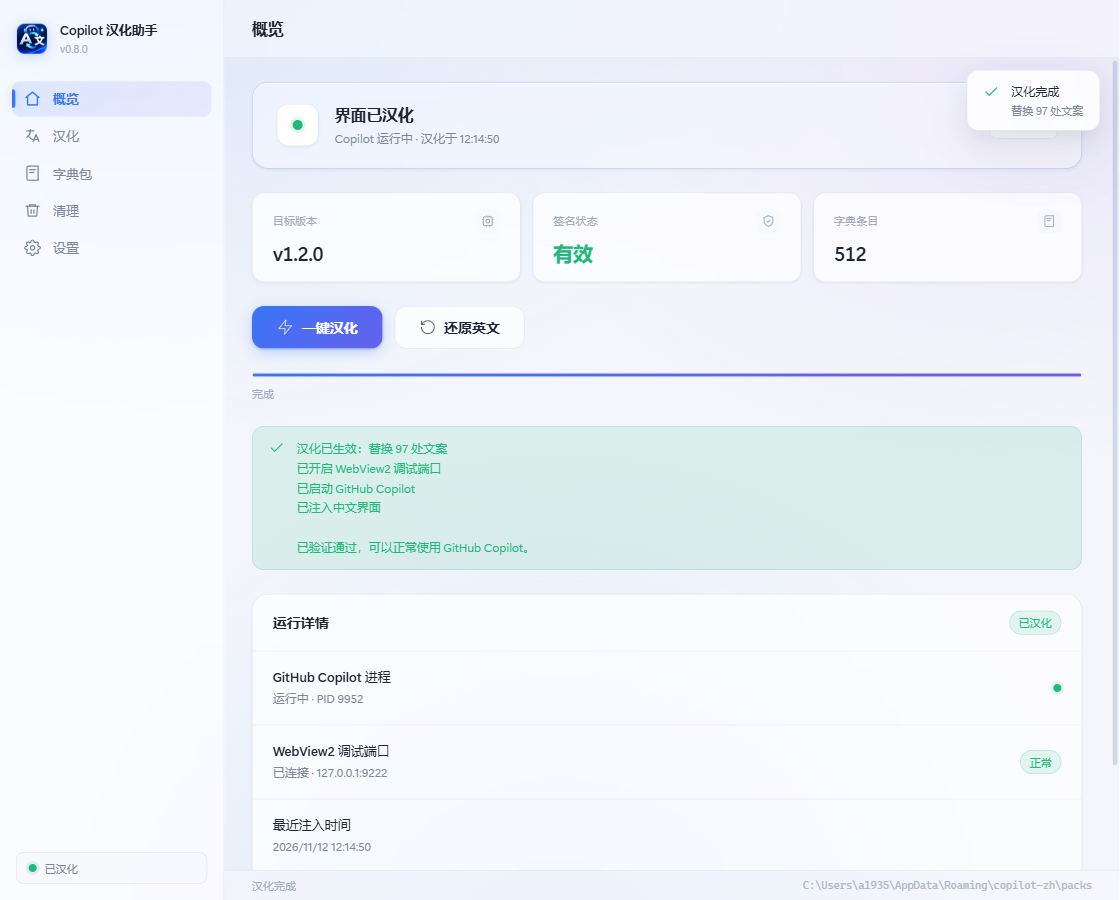
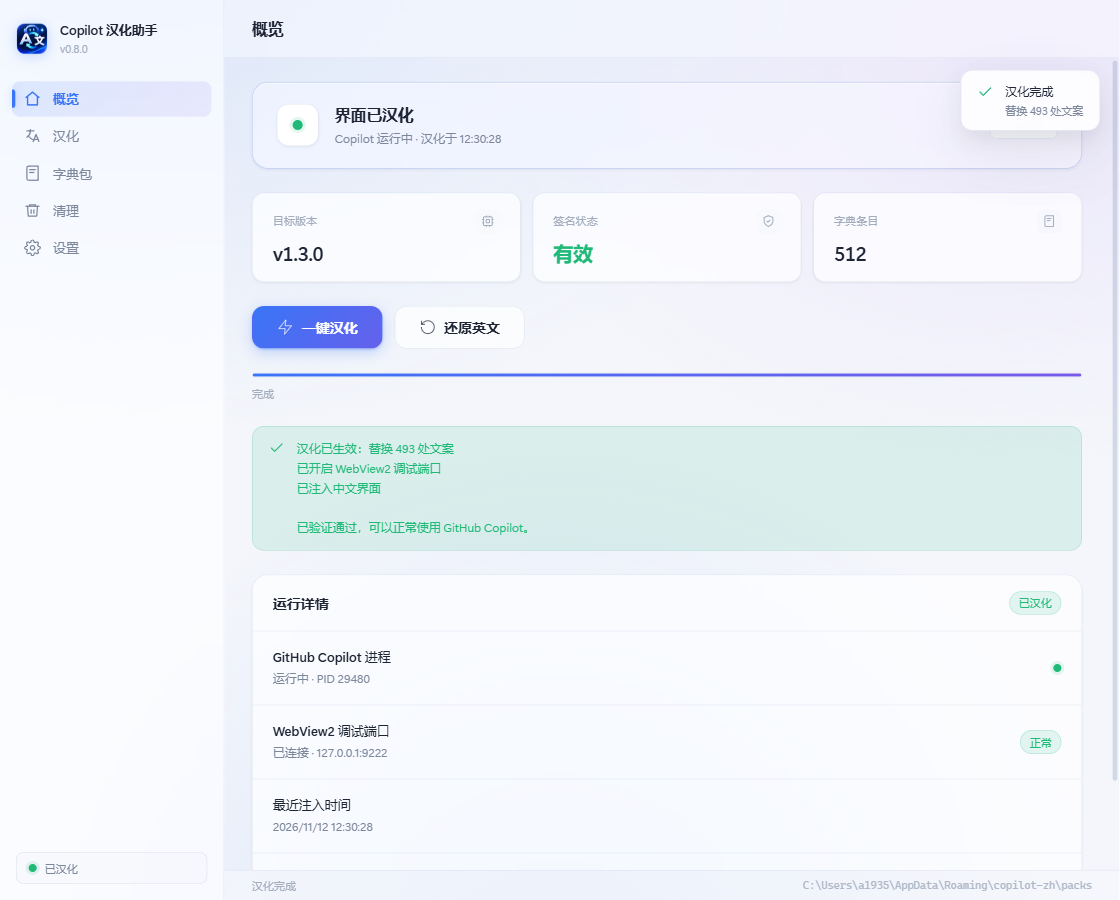
test(ui): 边界场景全面验证并修复启动 bug
UI/UX 重构·阶段五：全面边界测试与安装包验证。

修复一个真实启动 bug：
launchCopilot 原先用 path.dirname(exePath) 作为 cwd（Copilot 安装目录）。
当上一个 Copilot 进程刚被 taskkill、文件锁尚未完全释放时，
以该目录为工作目录 spawn 会抛 EBUSY，导致汉化流程卡在「启动 Copilot」阶段。
修复：
- cwd 改用系统临时目录，避免与 Copilot 自身文件产生锁竞争
- spawn 增加 error 事件监听（原先只看 try/catch，捕获不到异步错误）
- 针对 EBUSY/EPERM 类瞬时错误最多重试 3 次，间隔递增

新增 scripts/test-edge.js，19 项边界测试全部通过：
- 窗口尺寸：1280x900 / 1040x760 / 900x700 / 800x640 / 700x600 均无横向溢出
- 窄窗折叠：<860px 时侧边栏自动收到 68px，导航文字与品牌文字隐藏
- 动画关闭：data-motion=off 时过渡时长压到 0.001s
- 玻璃关闭：data-glass=off 时 backdrop-filter 变为 none
- 主题切换重绘：三次切换后分段滑块宽度始终正确（64px）
- 全页面双主题：10 个组合（5 页 × 2 主题）无横向溢出
- 设置往返：theme/motion/glass 写入后能正确读回
- 非法值拒绝：theme=invalid-value 被 settings.js 白名单拦截，保持原值
- 快速切换：连续 15 次页面切换无新增 JS 异常

真实场景测试（通过 UI 点击触发）：
- 场景 A 冷启动：Copilot 未运行 → 自动启动并注入，替换 97 处，7 阶段全完成
- 场景 B 已运行：Copilot 在跑但策略缺失 → 自动重启并注入，替换 493 处
- 独立验证：Copilot 页面 48 条文本中 36 条已中文化

构建与安装验证：
- 构建 v0.9.0 安装包（97.9 MB）
- 静默安装 → 启动 → 窗口标题、内置字典、设置文件均正常
- 卸载 → 4 项残留检查全部通过，零残留

注意：仅本地提交，未推送到 GitHub。

diff --git a/scripts/test-edge.js b/scripts/test-edge.js
@@ -1,0 +1,273 @@
+// 阶段五：边界场景测试
+// 覆盖：窗口尺寸、动画关闭、玻璃关闭、主题切换下的组件重绘、
+//       设置持久化重启、Copilot 已运行场景
+const http = require('http');
+const crypto = require('crypto');
+const net = require('net');
+
+const PORT = 9333;
+
+function httpGet(p) {
+  return new Promise((res, rej) => {
+    http.get({ host: '127.0.0.1', port: PORT, path: p }, r => {
+      let d = ''; r.on('data', c => d += c); r.on('end', () => res(d));
+    }).on('error', rej);
+  });
+}
+class WS {
+  constructor(u) { this.url = new URL(u); this.buf = Buffer.alloc(0); this.id = 0; this.pending = new Map(); }
+  connect() {
+    return new Promise((resolve, reject) => {
+      const key = crypto.randomBytes(16).toString('base64');
+      this.sock = net.connect(Number(this.url.port), this.url.hostname, () => {
+        this.sock.write([`GET ${this.url.pathname} HTTP/1.1`, `Host: ${this.url.host}`, 'Upgrade: websocket',
+          'Connection: Upgrade', `Sec-WebSocket-Key: ${key}`, 'Sec-WebSocket-Version: 13', '', ''].join('\r\n'));
+      });
+      let hs = false;
+      this.sock.on('data', d => {
+        this.buf = Buffer.concat([this.buf, d]);
+        if (!hs) {
+          const i = this.buf.indexOf('\r\n\r\n'); if (i < 0) return;
+          if (!this.buf.subarray(0, i).toString().includes('101')) return reject(new Error('hs'));
+          hs = true; this.buf = this.buf.subarray(i + 4); resolve();
+        }
+        this.p();
+      });
+      this.sock.on('error', reject);
+    });
+  }
+  p() {
+    while (true) {
+      if (this.buf.length < 2) return;
+      let len = this.buf[1] & 0x7f, off = 2;
+      if (len === 126) { if (this.buf.length < 4) return; len = this.buf.readUInt16BE(2); off = 4; }
+      else if (len === 127) { if (this.buf.length < 10) return; len = Number(this.buf.readBigUInt64BE(2)); off = 10; }
+      if (this.buf.length < off + len) return;
+      const t = this.buf.subarray(off, off + len).toString('utf8');
+      this.buf = this.buf.subarray(off + len);
+      try { const m = JSON.parse(t); if (m.id && this.pending.has(m.id)) {
+        const p = this.pending.get(m.id); this.pending.delete(m.id);
+        m.error ? p.reject(new Error(JSON.stringify(m.error))) : p.resolve(m.result); } } catch (e) {}
+    }
+  }
+  send(method, params) {
+    const id = ++this.id, data = Buffer.from(JSON.stringify({ id, method, params: params || {} }), 'utf8');
+    const mask = crypto.randomBytes(4), masked = Buffer.alloc(data.length);
+    for (let i = 0; i < data.length; i++) masked[i] = data[i] ^ mask[i % 4];
+    let h;
+    if (data.length < 126) h = Buffer.from([0x81, 0x80 | data.length]);
+    else if (data.length < 65536) { h = Buffer.alloc(4); h[0] = 0x81; h[1] = 0x80 | 126; h.writeUInt16BE(data.length, 2); }
+    else { h = Buffer.alloc(10); h[0] = 0x81; h[1] = 0x80 | 127; h.writeBigUInt64BE(BigInt(data.length), 2); }
+    this.sock.write(Buffer.concat([h, mask, masked]));
+    return new Promise((res, rej) => { this.pending.set(id, { resolve: res, reject: rej });
+      setTimeout(() => { if (this.pending.has(id)) { this.pending.delete(id); rej(new Error('timeout')); } }, 25000); });
+  }
+  close() { try { this.sock.destroy(); } catch (e) {} }
+}
+
+const sleep = ms => new Promise(r => setTimeout(r, ms));
+
+(async () => {
+  const list = JSON.parse(await httpGet('/json/list'));
+  const page = list.find(t => t.type === 'page');
+  const ws = new WS(page.webSocketDebuggerUrl);
+  await ws.connect();
+
+  const results = [];
+  const ev = async (expr, awaitPromise = true) => {
+    const r = await ws.send('Runtime.evaluate', { expression: expr, returnByValue: true, awaitPromise });
+    if (r && r.exceptionDetails) return 'EXC:' + JSON.stringify(r.exceptionDetails).slice(0, 200);
+    return r && r.result ? r.result.value : null;
+  };
+  const check = (name, actual, expected) => {
+    const pass = JSON.stringify(actual) === JSON.stringify(expected);
+    results.push({ name, pass, actual, expected });
+    console.log(`  ${pass ? '✓' : '✗'} ${name}${pass ? '' : `  期望=${JSON.stringify(expected)} 实际=${JSON.stringify(actual)}`}`);
+  };
+
+  // ---------- 1. 窗口尺寸适配 ----------
+  console.log('=== 1. 窗口尺寸适配 ===');
+  const sizes = [
+    { w: 1280, h: 900,  name: '1280x900 标准' },
+    { w: 1040, h: 760,  name: '1040x760 默认' },
+    { w: 900,  h: 700,  name: '900x700 紧凑' },
+    { w: 800,  h: 640,  name: '800x640 窄窗' },
+    { w: 700,  h: 600,  name: '700x600 极窄' },
+  ];
+
+  for (const s of sizes) {
+    await ws.send('Emulation.setDeviceMetricsOverride', {
+      width: s.w, height: s.h, deviceScaleFactor: 1, mobile: false,
+    });
+    await sleep(320);
+
+    // 检查关键元素是否溢出视口
+    const overflow = await ev(`(() => {
+      const el = document.querySelector('.content-area');
+      const pages = document.getElementById('pages');
+      return JSON.stringify({
+        contentW: el ? el.getBoundingClientRect().width : -1,
+        bodyOverflowX: document.body.scrollWidth > window.innerWidth + 2,
+        navVisible: !!document.querySelector('.nav-item'),
+        sidebarW: document.querySelector('.sidebar') ? Math.round(document.querySelector('.sidebar').getBoundingClientRect().width) : -1
+      });
+    })()`);
+    let o = {};
+    try { o = JSON.parse(overflow); } catch (e) {}
+    const ok = !o.bodyOverflowX && o.navVisible && o.contentW > 0;
+    results.push({ name: s.name, pass: ok });
+    console.log(`  ${ok ? '✓' : '✗'} ${s.name}  侧栏=${o.sidebarW}px 内容区=${Math.round(o.contentW)}px 横向溢出=${o.bodyOverflowX}`);
+  }
+
+  // ---------- 2. 窄窗下侧边栏折叠 ----------
+  console.log('\n=== 2. 窄窗侧边栏折叠 ===');
+  await ws.send('Emulation.setDeviceMetricsOverride', { width: 780, height: 700, deviceScaleFactor: 1, mobile: false });
+  await sleep(400);
+  const narrow = await ev(`(() => {
+    const sb = document.querySelector('.sidebar');
+    const label = document.querySelector('.nav-item span');
+    const brand = document.querySelector('.brand-meta');
+    return JSON.stringify({
+      sidebarW: Math.round(sb.getBoundingClientRect().width),
+      labelHidden: label ? getComputedStyle(label).display === 'none' : false,
+      brandHidden: brand ? getComputedStyle(brand).display === 'none' : false
+    });
+  })()`);
+  let n = {};
+  try { n = JSON.parse(narrow); } catch (e) {}
+  check('侧边栏折叠到 68px', n.sidebarW <= 70, true);
+  check('导航文字隐藏', n.labelHidden, true);
+  check('品牌文字隐藏', n.brandHidden, true);
+
+  // ---------- 3. 动画关闭 ----------
+  console.log('\n=== 3. 动画关闭 ===');
+  await ws.send('Emulation.setDeviceMetricsOverride', { width: 1120, height: 800, deviceScaleFactor: 1, mobile: false });
+  await sleep(250);
+  await ev(`document.documentElement.dataset.motion = 'off'`);
+  await sleep(200);
+  const motionOff = await ev(`(() => {
+    const el = document.querySelector('.card');
+    const cs = getComputedStyle(el);
+    return JSON.stringify({ transition: cs.transitionDuration, dataMotion: document.documentElement.dataset.motion });
+  })()`);
+  let mo = {};
+  try { mo = JSON.parse(motionOff); } catch (e) {}
+  check('动画已关闭', mo.dataMotion, 'off');
+  check('过渡时长接近 0', String(mo.transition).startsWith('0.001s') || String(mo.transition) === '0s', true);
+  await ev(`document.documentElement.dataset.motion = 'on'`);
+  await sleep(200);
+
+  // ---------- 4. 玻璃关闭 ----------
+  console.log('\n=== 4. 玻璃效果关闭 ===');
+  await ev(`document.documentElement.dataset.glass = 'off'`);
+  await sleep(250);
+  const glassOff = await ev(`(() => {
+    const sb = document.querySelector('.sidebar');
+    const cs = getComputedStyle(sb);
+    return JSON.stringify({
+      backdrop: cs.backdropFilter || cs.webkitBackdropFilter,
+      bg: cs.backgroundColor
+    });
+  })()`);
+  let go = {};
+  try { go = JSON.parse(glassOff); } catch (e) {}
+  check('backdrop-filter 已禁用', String(go.backdrop) === 'none' || !go.backdrop, true);
+  await ev(`document.documentElement.dataset.glass = 'normal'`);
+  await sleep(250);
+
+  // ---------- 5. 主题切换后分段控件重绘 ----------
+  console.log('\n=== 5. 主题切换后组件重绘 ===');
+  await ev(`document.querySelector('.nav-item[data-page="settings"]').click()`);
+  await sleep(400);
+  const widths = [];
+  for (const t of ['light', 'dark', 'light']) {
+    await ev(`document.querySelector('#seg-theme .segmented-item[data-value="${t}"]').click()`);
+    await sleep(320);
+    const w = await ev(`parseFloat(getComputedStyle(document.getElementById('seg-theme')).getPropertyValue('--seg-w')) || 0`);
+    widths.push(Math.round(w));
+  }
+  const allPositive = widths.every(w => w > 0);
+  check('三次切换后滑块均有宽度', allPositive, true);
+  console.log(`    滑块宽度序列: ${widths.join(', ')} px`);
+
+  // ---------- 6. 所有页面在各主题下无溢出 ----------
+  console.log('\n=== 6. 全页面双主题溢出检查 ===');
+  const pages = ['home', 'translate', 'dict', 'cleanup', 'settings'];
+  let overflowIssues = [];
+  for (const theme of ['light', 'dark']) {
+    await ev(`document.documentElement.dataset.theme = '${theme}'`);
+    await sleep(200);
+    for (const p of pages) {
+      await ev(`document.querySelector('.nav-item[data-page="${p}"]').click()`);
+      await sleep(280);
+      const of = await ev(`(() => {
+        const pages = document.getElementById('pages');
+        return JSON.stringify({
+          hOverflow: pages.scrollWidth > pages.clientWidth + 2,
+          vOverflow: pages.scrollHeight > pages.clientHeight
+        });
+      })()`);
+      let oo = {};
+      try { oo = JSON.parse(of); } catch (e) {}
+      if (oo.hOverflow) overflowIssues.push(`${theme}/${p}`);
+    }
+  }
+  check('无横向溢出', overflowIssues.length, 0);
+  if (overflowIssues.length) console.log('    溢出页面:', overflowIssues.join(', '));
+
+  // ---------- 7. 设置持久化完整往返 ----------
+  console.log('\n=== 7. 设置持久化往返 ===');
+  const testPatch = { theme: 'dark', motion: 'off', glass: 'strong' };
+  await ev(`window.api.setSettings(${JSON.stringify(testPatch)}).then(r => JSON.stringify(r))`);
+  await sleep(400);
+  const readBack = await ev(`window.api.getSettings().then(r => JSON.stringify({
+    theme: r.data.theme, motion: r.data.motion, glass: r.data.glass
+  }))`);
+  let rb = {};
+  try { rb = JSON.parse(readBack); } catch (e) {}
+  check('theme 写入并读回', rb.theme, 'dark');
+  check('motion 写入并读回', rb.motion, 'off');
+  check('glass 写入并读回', rb.glass, 'strong');
+
+  // 还原
+  await ev(`window.api.setSettings({ theme: 'system', motion: 'on', glass: 'normal' })`);
+  await sleep(300);
+
+  // ---------- 8. 无效值拒绝 ----------
+  console.log('\n=== 8. 非法设置值被拒绝 ===');
+  await ev(`window.api.setSettings({ theme: 'invalid-value' })`);
+  await sleep(300);
+  const afterInvalid = await ev(`window.api.getSettings().then(r => r.data.theme)`);
+  check('非法 theme 被拒绝（保持原值）', ['light', 'dark', 'system'].includes(afterInvalid), true);
+  console.log(`    当前 theme: ${afterInvalid}`);
+
+  // ---------- 9. 快速页面切换无异常 ----------
+  console.log('\n=== 9. 快速连续切换页面 ===');
+  const beforeErr = await ev(`(window.__errs || []).length`);
+  for (let i = 0; i < 15; i++) {
+    const p = pages[i % pages.length];
+    await ev(`document.querySelector('.nav-item[data-page="${p}"]').click()`);
+    await sleep(40);
+  }
+  await sleep(500);
+  const afterErr = await ev(`(window.__errs || []).length`);
+  check('快速切换无新增异常', afterErr === beforeErr, true);
+  const finalPage = await ev(`document.querySelector('.page.active').dataset.page`);
+  check('最终停留在有效页面', pages.includes(finalPage), true);
+
+  // ---------- 汇总 ----------
+  const failed = results.filter(r => !r.pass);
+  console.log(`\n===== 阶段五边界测试：${results.length - failed.length}/${results.length} 通过 =====`);
+  if (failed.length) {
+    console.log('失败项：');
+    failed.forEach(f => console.log('  -', f.name));
+  }
+
+  // 复原
+  await ev(`document.documentElement.dataset.theme = 'system'`);
+  await ev(`document.querySelector('.nav-item[data-page="home"]').click()`);
+  await ws.send('Emulation.clearDeviceMetricsOverride', {}).catch(() => {});
+
+  ws.close();
+  process.exit(failed.length ? 1 : 0);
+})().catch(e => { console.error('失败:', e.message); process.exit(1); });

diff --git a/electron/main.js b/electron/main.js
@@ -230,22 +230,65 @@ function createTray() {
 }
 
 /** 启动 GitHub Copilot 主程序 */
+/**
+ * 启动 GitHub Copilot 主程序。
+ *
+ * 注意工作目录的选择：
+ *   不要用 path.dirname(exePath) 作为 cwd。
+ *   当上一个 Copilot 进程刚被 taskkill、文件锁尚未完全释放时，
+ *   以该目录为 cwd 启动会抛 EBUSY（目录被占用）。
+ *   改用系统临时目录作为 cwd，避免与 Copilot 自身文件产生锁竞争。
+ *
+ * 同时增加重试：进程刚退出后的极短时间内，shell 层仍可能短暂占用目录。
+ */
 async function launchCopilot() {
   const loc = await locateApp();
   if (!loc.ok) return { ok: false, reason: loc.reason };
 
   const { spawn } = require('child_process');
-  try {
-    const child = spawn(loc.exePath, [], {
-      detached: true,
-      stdio: 'ignore',
-      cwd: path.dirname(loc.exePath),
-    });
-    child.unref();
-    return { ok: true, exePath: loc.exePath };
-  } catch (e) {
-    return { ok: false, reason: e.message };
+  const os = require('os');
+
+  const spawnOnce = () => new Promise((resolve) => {
+    try {
+      const child = spawn(loc.exePath, [], {
+        detached: true,
+        stdio: 'ignore',
+        cwd: os.tmpdir(),      // 关键：不要用 Copilot 安装目录
+        windowsHide: false,
+      });
+      // spawn 的失败是异步的，需要监听 error
+      let settled = false;
+      child.once('error', (err) => {
+        if (!settled) { settled = true; resolve({ ok: false, reason: err.message }); }
+      });
+      child.once('spawn', () => {
+        if (!settled) {
+          settled = true;
+          child.unref();
+          resolve({ ok: true, exePath: loc.exePath });
+        }
+      });
+      // 兜底：1 秒内既没 error 也没 spawn 事件，视为成功
+      setTimeout(() => {
+        if (!settled) { settled = true; child.unref(); resolve({ ok: true, exePath: loc.exePath }); }
+      }, 1000);
+    } catch (e) {
+      resolve({ ok: false, reason: e.message });
+    }
+  });
+
+  // 最多重试 3 次，每次间隔递增，应对文件锁尚未释放的瞬间
+  let last = { ok: false, reason: 'unknown' };
+  for (let attempt = 0; attempt < 3; attempt++) {
+    if (attempt > 0) {
+      await new Promise(r => setTimeout(r, 600 * attempt));
+    }
+    last = await spawnOnce();
+    if (last.ok) return last;
+    // 只对 EBUSY / EPERM / UNKNOWN 这类瞬时错误重试
+    if (last.reason && !/EBUSY|EPERM|UNKNOWN|resource busy/i.test(last.reason)) break;
   }
+  return last;
 }
 
 /** 立即对当前运行的 Copilot 执行一次注入 */

diff --git a/scripts/shot-installed.js b/scripts/shot-installed.js
@@ -1,0 +1,48 @@
+// 截取安装版界面（通过窗口句柄）
+const { execFileSync } = require('child_process');
+
+const ps = `
+Add-Type -AssemblyName System.Windows.Forms,System.Drawing
+Add-Type @"
+using System;
+using System.Runtime.InteropServices;
+using System.Text;
+public class WS {
+  [DllImport("user32.dll")] public static extern bool GetWindowRect(IntPtr h, out RECT r);
+  [DllImport("user32.dll")] public static extern bool SetForegroundWindow(IntPtr h);
+  [DllImport("user32.dll")] public static extern bool ShowWindow(IntPtr h, int c);
+  [DllImport("user32.dll")] public static extern int GetWindowText(IntPtr h, StringBuilder s, int n);
+  public struct RECT { public int Left, Top, Right, Bottom; }
+}
+"@
+$target = $null
+foreach($proc in (Get-Process -Name CopilotHan -ErrorAction SilentlyContinue)){
+  $h = $proc.MainWindowHandle
+  if($h -eq 0){ continue }
+  $sb = New-Object System.Text.StringBuilder 512
+  [WS]::GetWindowText($h, $sb, 512) | Out-Null
+  if($sb.ToString() -match '汉化助手'){ $target = $h; break }
+}
+if($target){
+  [WS]::ShowWindow($target, 3) | Out-Null
+  Start-Sleep -Milliseconds 900
+  [WS]::SetForegroundWindow($target) | Out-Null
+  Start-Sleep -Milliseconds 1100
+  $r = New-Object WS+RECT
+  [WS]::GetWindowRect($target, [ref]$r) | Out-Null
+  $w = [Math]::Min($r.Right - $r.Left, 1700)
+  $ht = [Math]::Min($r.Bottom - $r.Top, 950)
+  $bmp = New-Object System.Drawing.Bitmap($w, $ht)
+  $g = [System.Drawing.Graphics]::FromImage($bmp)
+  $g.CopyFromScreen([Math]::Max(0,$r.Left), [Math]::Max(0,$r.Top), 0, 0, $bmp.Size)
+  $bmp.Save("C:\\Users\\a1935\\Desktop\\copilot-zh\\docs\\images\\ui-installed.png", [System.Drawing.Imaging.ImageFormat]::Png)
+  $g.Dispose(); $bmp.Dispose()
+  Write-Output ("saved " + $w + "x" + $ht)
+} else {
+  Write-Output "no window"
+}
+`;
+
+const out = execFileSync('powershell.exe', ['-NoProfile', '-ExecutionPolicy', 'Bypass', '-Command', ps],
+  { encoding: 'utf8', timeout: 40000, windowsHide: true });
+console.log(out.trim());
